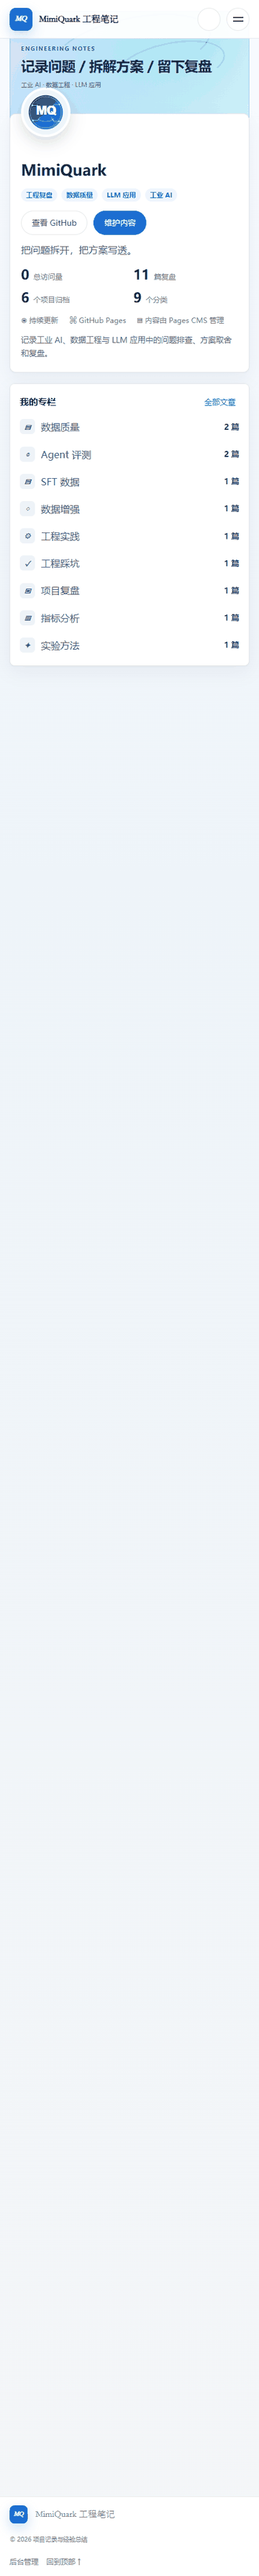
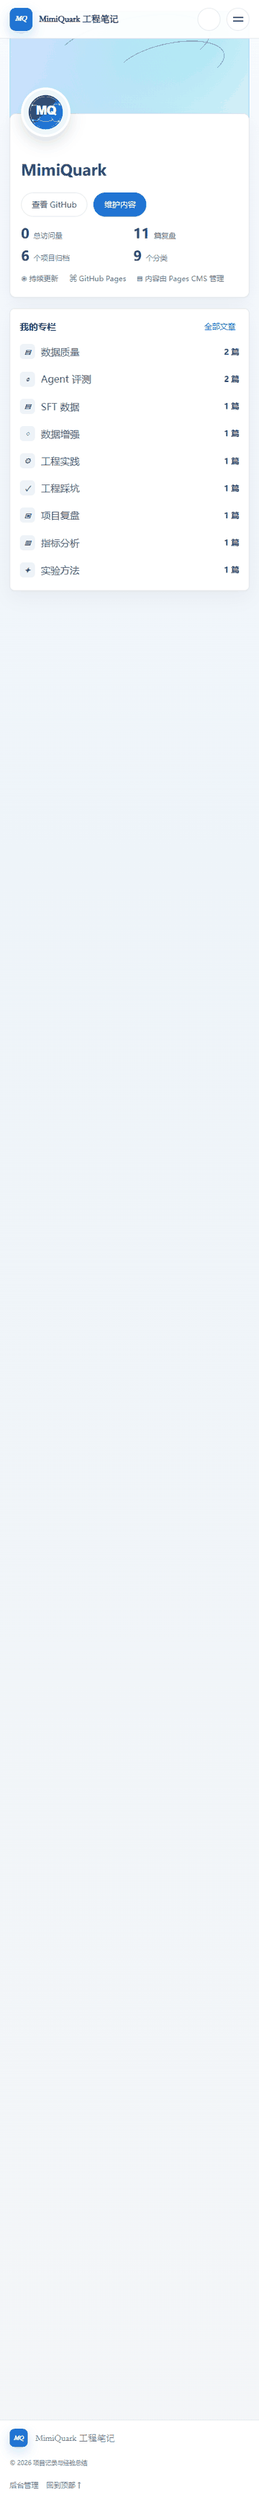
remove circled profile text

diff --git a/data.js b/data.js
@@ -5,16 +5,8 @@ window.portfolioDataFallback = {
     "heroEyebrow": "DATA × LLM ENGINEERING",
     "heroTitleLead": "把数据和模型，",
     "heroTitleAccent": "做成可复现、可评测的工程。",
-    "heroSummary": "把问题拆开，把方案写透，把实验和踩坑留下可复用的记录。",
     "projectsButtonLabel": "浏览项目",
     "notesButtonLabel": "阅读经验总结",
-    "heroTags": [
-      "SFT 数据",
-      "VLM",
-      "RAG",
-      "Agent",
-      "Data Engineering"
-    ],
     "projectsEyebrow": "01 / PROJECTS",
     "projectsTitle": "项目记录",
     "projectsIntro": "围绕多模态数据、模型评测和工程落地，记录每个项目的真实问题、方案与结果。",
@@ -22,35 +14,13 @@ window.portfolioDataFallback = {
     "notesTitle": "经验总结",
     "notesIntro": "不只写结论，也记录数据为什么失真、评测如何设计，以及问题最终怎样复现和修复。",
     "blogName": "MimiQuark 工程笔记",
-    "author": {
-      "displayName": "MimiJimmy",
-      "avatarText": "Z",
-      "headline": "多模态数据、SFT 与 LLM 应用工程",
-      "bio": "人工智能本科，关注多模态数据处理、SFT 数据质量、RAG 与工具调用 Agent 的工程化落地。",
-      "topics": [
-        "Python",
-        "SQL",
-        "VLM",
-        "RAG",
-        "Agent",
-        "Docker"
-      ]
-    },
     "adminUrl": "https://app.pagescms.org/MimiQuark/MimiQuark.github.io/main",
     "profile": {
       "displayName": "MimiQuark",
       "avatarImage": "public/uploads/mimiquark-avatar.svg",
       "avatarText": "MQ",
       "coverImage": "",
-      "headline": "把问题拆开，把方案写透。",
-      "bio": "记录工业 AI、数据工程与 LLM 应用中的问题排查、方案取舍和复盘。",
       "status": "持续更新",
-      "badges": [
-        "工程复盘",
-        "数据质量",
-        "LLM 应用",
-        "工业 AI"
-      ],
       "stats": [
         {
           "label": "总访问量",
@@ -161,9 +131,6 @@ window.portfolioDataFallback = {
       "subtitle": "问题怎么出现、如何定位，以及最后留下了什么方法。"
     },
     "cover": {
-      "eyebrow": "ENGINEERING NOTES",
-      "title": "记录问题 / 拆解方案 / 留下复盘",
-      "subtitle": "工业 AI · 数据工程 · LLM 应用",
       "theme": "aurora"
     },
     "labels": {

diff --git a/index.html b/index.html
@@ -55,7 +55,7 @@
   <main id="main" class="profile-page">
     <section class="profile-shell section-shell" id="home">
       <div class="profile-cover" id="profileCover" data-cover-theme="aurora">
-        <div class="cover-sketch" aria-hidden="true"><span class="sketch-plane">✈</span></div><div class="cover-copy"><span id="coverEyebrow">INDUSTRIAL AI · DATA · LLM</span><strong id="coverTitle">让数据与模型变成可复现的工程</strong><small id="coverSubtitle">工业 AI / SFT 数据 / Agent 工程 / Python 后端</small></div>
+        <div class="cover-sketch" aria-hidden="true"><span class="sketch-plane">✈</span></div>
       </div>
       <div class="profile-card reveal">
         <div class="profile-avatar" id="profileAvatar"><img id="profileAvatarImage" alt="" hidden><span id="profileAvatarText">MQ</span></div>
@@ -63,17 +63,14 @@
           <div class="profile-title-row">
             <div>
               <h1 id="profileName">MimiQuark</h1>
-              <div class="profile-badges" id="profileBadges"></div>
             </div>
             <div class="profile-actions">
               <a class="pill-button" id="githubButton" href="https://github.com/MimiQuark" target="_blank" rel="noreferrer">查看 GitHub</a>
               <a class="pill-button primary" id="profileAdminButton" href="#" target="_blank" rel="noreferrer">维护内容</a>
             </div>
           </div>
-          <p class="profile-headline" id="profileHeadline"></p>
           <div class="profile-stats" id="profileStats"></div>
           <div class="profile-meta" id="profileMeta"></div>
-          <p class="profile-bio" id="profileBio"></p>
         </div>
       </div>
     </section>

diff --git a/app.js b/app.js
@@ -66,13 +66,8 @@ function renderPage() {
   setText("brandName", blogName);
   setText("footerName", blogName);
   setText("profileName", displayName);
-  setText("profileHeadline", profile.headline || author.headline || "");
-  setText("profileBio", profile.bio || author.bio || "");
   setText("profileAvatarText", avatarText);
   const coverContent = page.cover || {};
-  setText("coverEyebrow", coverContent.eyebrow || "ENGINEERING NOTES");
-  setText("coverTitle", coverContent.title || "记录问题 / 拆解方案 / 留下复盘");
-  setText("coverSubtitle", coverContent.subtitle || "工业 AI · 数据工程 · LLM 应用");
   const labels = page.labels || {};
   setText("githubButton", labels.githubButton || "查看 GitHub");
   setText("profileAdminButton", labels.adminButton || "维护内容");
@@ -95,12 +90,6 @@ function renderPage() {
   if (cover && profile.coverImage) {
     cover.style.setProperty('--cover-image', 'url("' + String(profile.coverImage).replaceAll('"', '%22') + '")');
     cover.classList.add("has-image");
-  }
-
-  const badges = $("#profileBadges");
-  if (badges) {
-    const items = Array.isArray(profile.badges) ? profile.badges : (author.topics || []);
-    badges.innerHTML = items.map(item => "<span>" + escapeHtml(item) + "</span>").join("");
   }
 
   const statTarget = $("#profileStats");

diff --git a/README.md b/README.md
@@ -20,8 +20,8 @@
 
 打开 `https://app.pagescms.org/MimiQuark/MimiQuark.github.io/main` 可以编辑：
 
-- 顶部背景文字、背景主题（aurora / ink / sunrise）、博客名称、搜索提示和内容流文案
-- 公开昵称、头像、顶部背景图、写作标签和简介
+- 顶部背景主题（aurora / ink / sunrise）、博客名称、搜索提示和内容流文案
+- 公开昵称、头像和顶部背景图
 - 总访问量使用的计数空间、计数键和接口失败时的显示值
 - 文章分类和写作方向
 - 项目背景、技术栈、问题、解决方法和复盘结果
